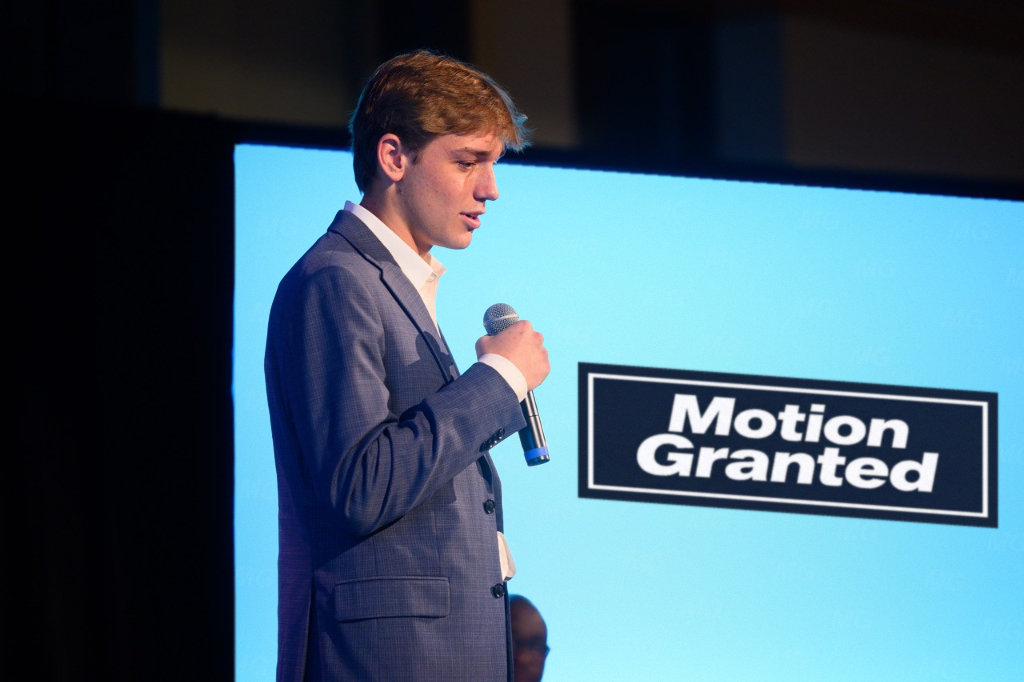
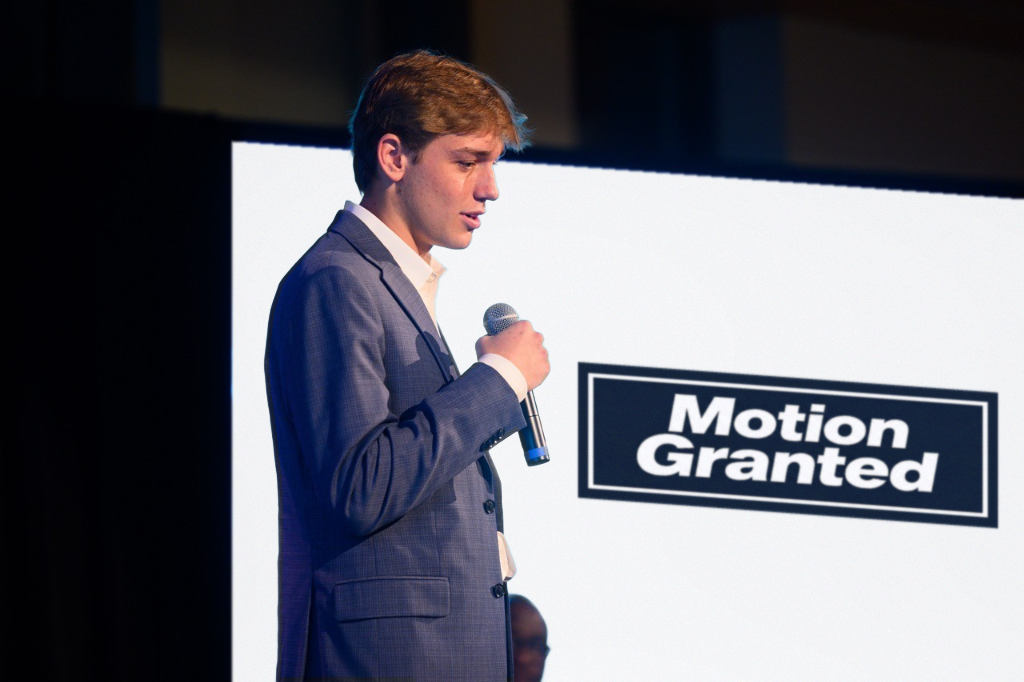
White stage screen in hero photo; restore missing resume content
- porter-mg.png: stage screen is now white (keeping the original light
  falloff), cyan spill on the edges of the speaker is neutralized, and
  the screen-edge fringe is covered.
- Resume: add ABA TECHSHOW 2026, "wrote front end, back end, monitoring",
  activities (Kappa Sigma, St. Aloysius, YEA/Blitz Media), an Earlier Work
  entry (Rhorer Mutual, Geaux Clean Car Wash), and a Skills card with the
  resume's languages, stack, systems, AI, business skills and interests.
- Home: tool tags on the three competency cards.

diff --git a/website-design-and-github-hosting/porter-website/resume.html b/website-design-and-github-hosting/porter-website/resume.html
@@ -35,6 +35,7 @@
                     <ul>
                         <li>Digital Services and Consulting concentration.</li>
                         <li>GPA 3.49 (Economics 4.00). President's Honor Roll, Spring 2025. Dean's List, Fall 2025.</li>
+                        <li>Kappa Sigma Fraternity (2024 – Present). Confirmation Small Group Leader, St. Aloysius Church. Young Entrepreneurs Academy, Blitz Media (2024).</li>
                     </ul>
                 </div>
             </div>
@@ -47,9 +48,10 @@
                     <h3>Motion Granted</h3>
                     <h4>Technical Co-Founder · Baton Rouge, LA</h4>
                     <ul>
-                        <li>Building a PostgreSQL legal citation database that classifies how U.S. court opinions treat the cases they cite, the same job Westlaw KeyCite does. Loaded 9M+ opinions from CourtListener bulk data and classify treatment with a tiered LLM pipeline.</li>
+                        <li>Building a PostgreSQL legal citation database that classifies how U.S. court opinions treat the cases they cite, the same job Westlaw KeyCite does. Loaded 9M+ opinions from CourtListener bulk data, extracted the citations, and classify treatment with a tiered LLM pipeline. Wrote its front end, back end, and monitoring.</li>
                         <li>Built the company's first product, an AI motion-drafting web app for small law firms (Next.js, TypeScript, Supabase, Stripe, Vercel), then shelved it once it was clear the data was the real business.</li>
                         <li>Build everything by directing AI coding agents (Claude Code, Codex). I turn my attorney co-founder's legal requirements into written specs, test what comes back, and own deploys, CI, and permissions.</li>
+                        <li>Walked ABA TECHSHOW 2026 in Chicago to size up the legal AI competition and see what firms were buying.</li>
                     </ul>
                 </div>
             </div>
@@ -78,6 +80,33 @@
                         <li>Started it at 17 and ran it for two years: quoted jobs, bought and maintained the equipment, and handled every customer myself. Sold it in 2025.</li>
                     </ul>
                 </div>
+            </div>
+
+            <!-- Earlier experience -->
+            <div class="timeline-item">
+                <div class="timeline-dot company-logo" aria-hidden="true">+</div>
+                <div class="timeline-date">2021 – 2025</div>
+                <div class="glass-card">
+                    <h3>Earlier Work</h3>
+                    <h4>Baton Rouge &amp; Prairieville, LA</h4>
+                    <ul>
+                        <li><strong>Rhorer Mutual Industries</strong>, Laborer (2023 – 2025): railroad track construction and maintenance crews at industrial sites under strict safety procedures.</li>
+                        <li><strong>Geaux Clean Car Wash</strong>, Shift Lead (2021 – 2023): opened and closed, directed the crew, and handled the cash drawer and complaints.</li>
+                    </ul>
+                </div>
+            </div>
+
+            <!-- Skills -->
+            <div class="glass-card skills-card">
+                <h3>Skills</h3>
+                <dl class="skills-list">
+                    <dt>Languages</dt><dd>TypeScript, JavaScript, SQL, Python, Bash</dd>
+                    <dt>Web &amp; data</dt><dd>Next.js, React, PostgreSQL, pgvector, Supabase, Stripe, Vercel, GitHub Actions</dd>
+                    <dt>Systems</dt><dd>Linux (Ubuntu, Arch), WSL, Tailscale, iDRAC, server hardware, networking, monitoring</dd>
+                    <dt>AI</dt><dd>Claude Code, Codex, LLM APIs (Anthropic, OpenAI, Google), local inference with vLLM, MCP servers</dd>
+                    <dt>Business</dt><dd>Quoting and invoicing, Stripe billing, sales and customer service, competitive analysis, requirements and specs, business statistics, public speaking, Excel and Google Workspace</dd>
+                    <dt>Interests</dt><dd>Fishing, running local AI models, home lab hardware, live music</dd>
+                </dl>
             </div>
 
             <div class="timeline-cta">

diff --git a/website-design-and-github-hosting/porter-website/index.html b/website-design-and-github-hosting/porter-website/index.html
@@ -41,16 +41,36 @@
                     <span class="card-label">01</span>
                     <h3>Data Systems</h3>
                     <p>PostgreSQL at scale: 9M+ court opinions loaded from bulk data, citations extracted and classified, all hosted on a server I set up myself.</p>
+                    <div class="project-tags">
+                        <span class="tag">PostgreSQL</span>
+                        <span class="tag">pgvector</span>
+                        <span class="tag">Python</span>
+                        <span class="tag">SQL</span>
+                        <span class="tag">Linux</span>
+                    </div>
                 </div>
                 <div class="glass-card" id="skill-2">
                     <span class="card-label">02</span>
                     <h3>Agent-Directed Development</h3>
                     <p>I build with Claude Code and Codex: write the spec, direct the agents, and test what comes back before it ships.</p>
+                    <div class="project-tags">
+                        <span class="tag">Claude Code</span>
+                        <span class="tag">Codex</span>
+                        <span class="tag">MCP</span>
+                        <span class="tag">TypeScript</span>
+                        <span class="tag">Next.js</span>
+                    </div>
                 </div>
                 <div class="glass-card" id="skill-3">
                     <span class="card-label">03</span>
                     <h3>Business &amp; Clients</h3>
                     <p>Running my own businesses since 16. I quote, invoice, and turn an attorney co-founder's requirements into specs engineers can build.</p>
+                    <div class="project-tags">
+                        <span class="tag">Stripe billing</span>
+                        <span class="tag">Sales</span>
+                        <span class="tag">Specs</span>
+                        <span class="tag">Public speaking</span>
+                    </div>
                 </div>
             </div>
         </section>

diff --git a/website-design-and-github-hosting/porter-website/styles.css b/website-design-and-github-hosting/porter-website/styles.css
@@ -454,6 +454,36 @@ section + section {
     margin-top: 0.4rem;
 }
 
+.skills-card {
+    margin-left: 4.5rem;
+}
+
+.skills-card h3 {
+    margin-bottom: 1.25rem;
+}
+
+.skills-list {
+    display: grid;
+    grid-template-columns: 7.5rem 1fr;
+    gap: 0.75rem 1.25rem;
+}
+
+.skills-list dt {
+    font-family: var(--font-mono);
+    font-size: 0.75rem;
+    color: var(--accent);
+    padding-top: 0.2rem;
+}
+
+.skills-list dd {
+    color: var(--text-secondary);
+}
+
+.timeline ul strong {
+    color: var(--text-primary);
+    font-weight: 500;
+}
+
 .timeline-cta {
     margin-top: 3rem;
     padding-left: 4.5rem;
@@ -600,6 +630,19 @@ footer {
     .timeline-item,
     .timeline-cta {
         padding-left: 3.75rem;
+    }
+
+    .skills-card {
+        margin-left: 0;
+    }
+
+    .skills-list {
+        grid-template-columns: 1fr;
+        gap: 0.25rem;
+    }
+
+    .skills-list dd {
+        margin-bottom: 0.75rem;
     }
 
     footer {
